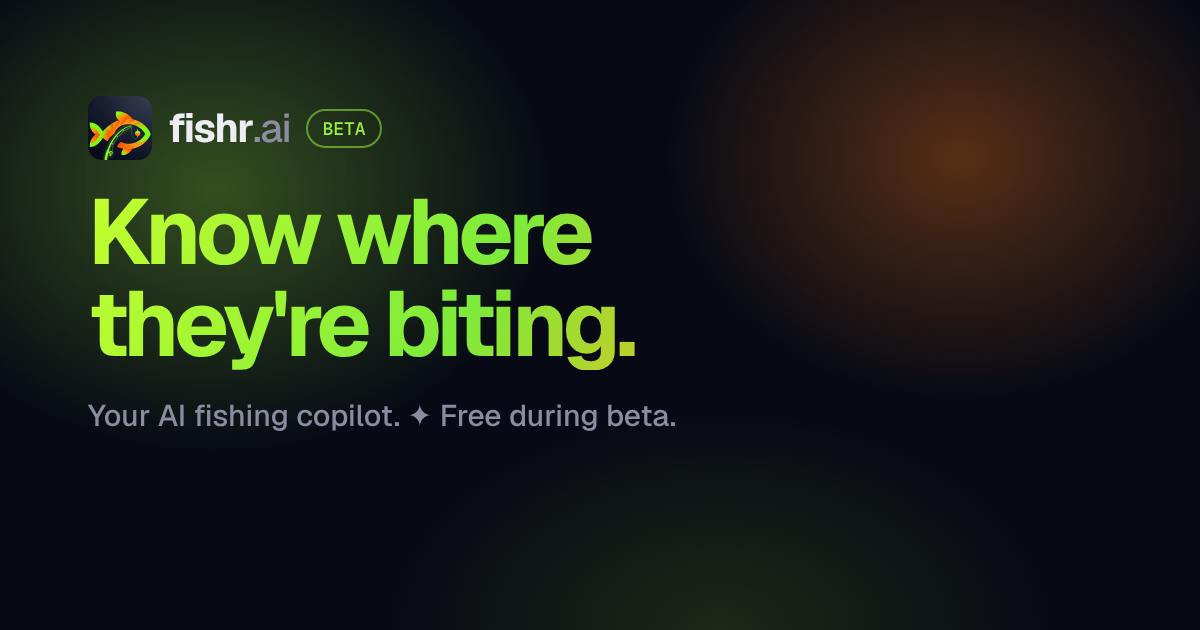
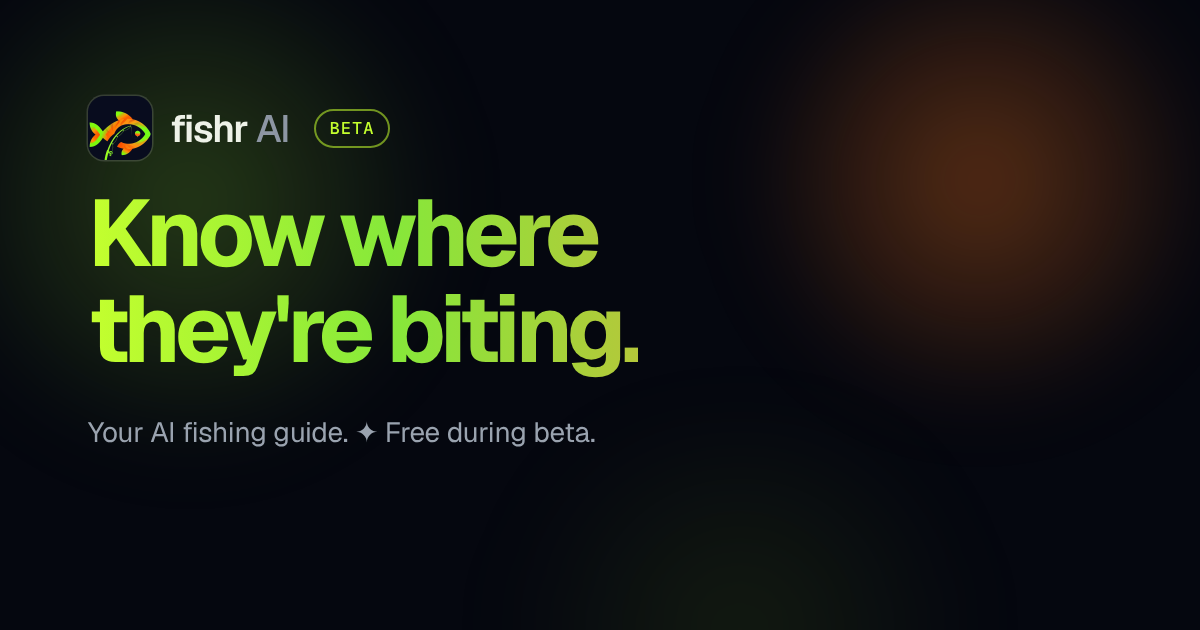
Link preview image says fishr AI and "Your AI fishing guide"
The card shown when fishr.monster is shared still read fishr.ai and "Your AI fishing copilot". Same design, new
name and wording; the image address changes so messaging apps fetch the new one.

Claude-Session: https://claude.ai/code/session_01Uctd8KAXYKz8FGoxdXy9gh

diff --git a/index.html b/index.html
@@ -8,7 +8,7 @@
 <meta name="theme-color" content="#070A14">
 <meta property="og:title" content="fishr AI · Know where they're biting">
 <meta property="og:description" content="Your AI fishing guide. Log trips, find your patterns, get the call. Free during beta.">
-<meta property="og:image" content="https://fishr.monster/og.png">
+<meta property="og:image" content="https://fishr.monster/og.png?v=2">
 <meta property="og:url" content="https://fishr.monster/">
 <meta property="og:type" content="website">
 <meta name="twitter:card" content="summary_large_image">
